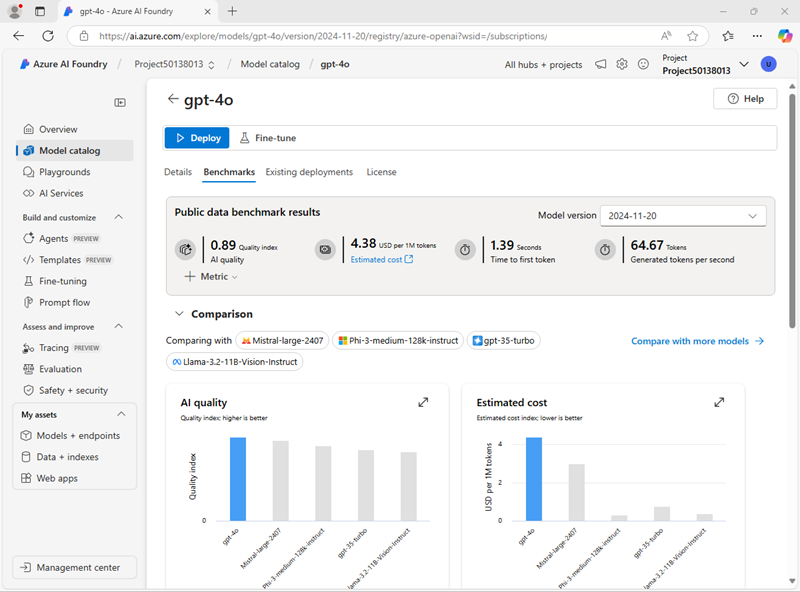
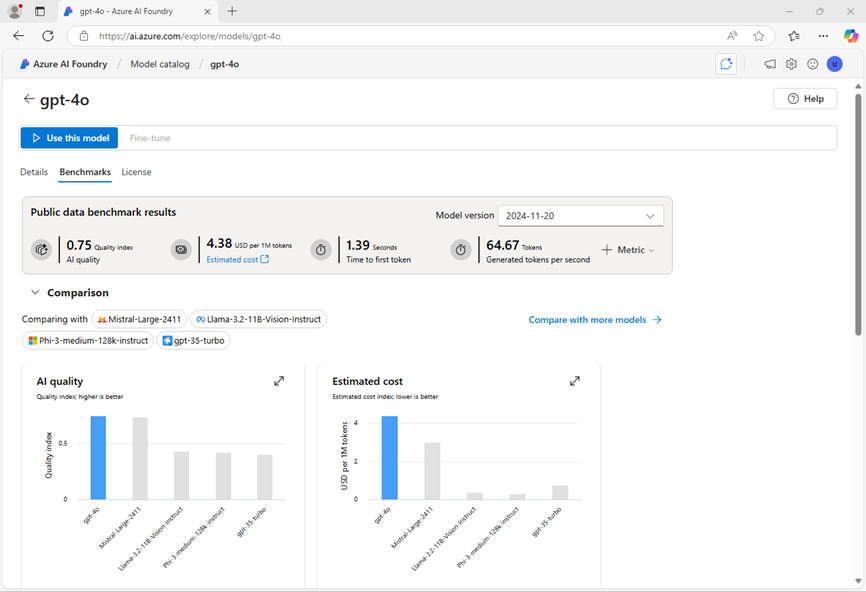
Adding fix for lab 2

diff --git a/Instructions/02-Explore-model-catalog.md b/Instructions/02-Explore-model-catalog.md
@@ -14,48 +14,18 @@ This exercise will take approximately **25** minutes.
 
 > **Note**: Some of the technologies used in this exercise are in preview or in active development. You may experience some unexpected behavior, warnings, or errors.
 
-## Create an Azure AI hub and project
+## Explore models
 
-An Azure AI hub provides a collaborative workspace within which you can define one or more *projects*. Let's create a project and Azure AI hub.
+Let's start by signing into Azure AI Foundry portal and exploring some of the available models.
 
 1. In a web browser, open the [Azure AI Foundry portal](https://ai.azure.com) at `https://ai.azure.com` and sign in using your Azure credentials. Close any tips or quick start panes that are opened the first time you sign in, and if necessary use the **Azure AI Foundry** logo at the top left to navigate to the home page, which looks similar to the following image (close the **Help** pane if it's open):
 
     ![Screenshot of Azure AI Foundry portal.](./media/ai-foundry-home.png)
 
-1. In the home page, select **+ Create project**.
-1. In the **Create a project** wizard, enter a valid name for your project and if an existing hub is suggested, choose the option to create a new one. Then review the Azure resources that will be automatically created to support your hub and project.
-1. Select **Customize** and specify the following settings for your hub:
-    - **Hub name**: *A valid name for your hub*
-    - **Subscription**: *Your Azure subscription*
-    - **Resource group**: *Create or select a resource group*
-    - **Location**: Select **Help me choose** and then select **gpt-4o** in the Location helper window and use the recommended region\*
-    - **Connect Azure AI Services or Azure OpenAI**: *Create a new AI Services resource*
-    - **Connect Azure AI Search**: Skip connecting
-
-    > \* Azure OpenAI resources are constrained by regional model quotas. In the event of a quota limit being exceeded later in the exercise, there's a possibility you may need to create another resource in a different region.
-
-1. Select **Next** and review your configuration. Then select **Create** and wait for the process to complete.
-1. When your project is created, close any tips that are displayed and review the project page in Azure AI Foundry portal, which should look similar to the following image:
-
-    ![Screenshot of a Azure AI project details in Azure AI Foundry portal.](./media/ai-foundry-project.png)
-
-## Configure Azure AI Inference service deployment
-
-There are multiple options for deploying models in the Azure AI Foundry portal. In this exercise, you'll use the **Azure AI model inference** deployment option, which supports both *Azure OpenAI* models and *Model as a service* models from the Azure AI Foundry model catalog. Since all models are deployed to a common endpoint hosted by your Azure AI Services resource, it's easy to switch between models when testing them in order to compare behavior and performance.
-
-1. In the toolbar at the top right of your Azure AI Foundry project page, use the **Preview features** icon (**&#9215;**) to display preview features.
-1. Verify that the **Deploy models to Azure AI model inference service** feature is enabled. Then close the **Preview features** pane.
-
-## Review model details and benchmarks
-
-To help you choose a model, you can explore model descriptions and benchmarks to determine which model best fits your needs.
-
-1. In the Azure AI Foundry project portal, in the navigation pane on the left, select **Model catalog**.
-1. In the model catalog home page, search for `gpt-4o` to find the **gpt-4o** chat completion model.
-
-    ![Screenshot of a search for "gpt-4o" in the model catalog.](./media/model-catalog-search-gpt4.png)
-
-1. Select the **gpt-4o** model and view its details. Read the description and review the other information available on the page.
+1. Review the information on the home page.
+1. In the home page, in the **Explore models and capabilities** section, search for the `gpt-4o` model; which we'll use in our project.
+1. In the search results, select the **gpt-4o** model to see its details.
+1. Read the description and review the other information available on the **Details** tab.
 
     ![Screenshot of the gpt-4o model details page.](./media/gpt4-details.png)
 
@@ -63,14 +33,14 @@ To help you choose a model, you can explore model descriptions and benchmarks to
 
     ![Screenshot of the gpt-4o model benchmarks page.](./media/gpt4-benchmarks.png)
 
-1. Use the back arrow (**&larr;**) next to the **gpt-4o** page title to return to the model catalog home page.
-1. In the model catalog, search for `Phi-3.5-mini-instruct` and view the details and benchmarks for the **Phi-3.5-mini-instruct** model.
+1. Use the back arrow (**&larr;**) next to the **gpt-4o** page title to return to the Azure AI Foundry home page.
+1. Search for `Phi-3.5-mini-instruct` and view the details and benchmarks for the **Phi-3.5-mini-instruct** model.
 
 ## Compare models
 
 You've reviewed two different models, both of which could be used to implement a generative AI chat application. Now let's compare the metrics for these two models visually.
 
-1. Return to the **Model catalog** home page.
+1. Use the back arrow (**&larr;**) to return to the **Model catalog** home page (if the Azure AI Foundry home page opens, select **Go to full model catalog**).
 1. Select **Compare models**. A visual chart for model comparison is displayed with a selection of common models.
 
     ![Screenshot of the model comparison page.](./media/compare-models.png)
@@ -88,57 +58,37 @@ You've reviewed two different models, both of which could be used to implement a
     - Fluency
     - Relevance
 
-## Deploy models
+    Based on the benchmarks, the gpt-4o model looks like offering the best overall performance, but at a higher cost.
 
-Now that you have explored your options through model benchmarks, you're ready to deploy language models. You can browse the model catalog, and deploy from there, or you can deploy a model through the **Deployments** page. Let's explore both options.
+1. In the list of models to compare, select the **gpt-4o** model to re-open its benchmarks page.
+1. In the page for the **gpt-4o** model page, select the **Overview** tab to view the model details.
 
-### Deploy a model from the *Model catalog*
+## Create an Azure AI Foundry project
 
-Let's start by deploying a model from the Model catalog. You may prefer this option when you want to review multiple available models.
+To use a model, you need to create an Azure AI Foundry *project*.
 
-1. Return to the **Model catalog** home page.
-1. Search for and select the `gpt-4o` model, just as you did previously.
-1. On the **gpt-4o** page, select **Deploy** and deploy the model with the following settings by selecting **Customize** in the deployment details:
-1. Deploy the model with the following settings by selecting **Customize** in the deployment details:
-    - **Deployment name**: *A valid name for your model deployment*
-    - **Deployment type**: Global Standard
-    - **Automatic version update**: Enabled
-    - **Model version**: *Select the most recent available version*
-    - **Connected AI resource**: *Select your Azure OpenAI resource connection*
-    - **Tokens per Minute Rate Limit (thousands)**: 50K *(or the maximum available in your subscription if less than 50K)*
-    - **Content filter**: DefaultV2
+1. At the top of the **gpt-4o** model overview page, select **Use this model**.
+1. When prompted to create a project, enter a valid name for your project and expand **Advanced options**.
+1. Select **Customize** and specify the following settings for your hub:
+    - **Azure AI Foundry resource**: *A valid name for your Azure AI Foundry resource*
+    - **Subscription**: *Your Azure subscription*
+    - **Resource group**: *Create or select a resource group*
+    - **Region**: *Select any **AI Services supported location***\*
 
-    > **Note**: Reducing the TPM helps avoid over-using the quota available in the subscription you are using. 50,000 TPM should be sufficient for the data used in this exercise. If your available quota is lower than this, you will be able to complete the exercise but you may need to wait and resubmit prompts if the rate limit is exceeded.
+    > \* Some Azure AI resources are constrained by regional model quotas. In the event of a quota limit being exceeded later in the exercise, there's a possibility you may need to create another resource in a different region.
 
-1. Wait for the deployment to complete.
+1. Select **Create** and wait for your project, including the gpt-4 model deployment you selected, to be created.
+1. When your project is created, the chat playground will be opened automatically so you can test your model:
 
-### Deploy a model through *Models + endpoints*
+    ![Screenshot of a Azure AI Foundry project chat playground.](./media/ai-foundry-chat-playground.png)
 
-If you already know exactly which model you want to deploy, you may prefer to do it through **Models + endpoints**.
+## Chat with the *gpt-4o* model
 
-1. In the navigation bar on the left, in the **My assets** section, select **Models + endpoints**.
-1. In the **Model deployments** tab, in the **+ Deploy model** drop-down list, select **Deploy base model**. Then search for `Phi-3.5-mini-instruct` and confirm you selection.
-1. Agree to the model license.
-1. Deploy a **Phi-3.5-mini-instruct** model with the following settings:
-    - **Deployment name**: *A valid name for your model deployment*
-    - **Deployment type**: Global Standard
-    - **Deployment details**: *Use the default settings*
+Now that you have a model deployment, you can use the playground to test it.
 
-1. Wait for the deployment to complete.
+1. In the chat playground, in the **Setup** pane, ensure that your **gpt-4o** model is selected and in the **Give the model instructions and context** field, set the system prompt to `You are an AI assistant that helps solve problems.`
+1. Select **Apply changes** to update the system prompt.
 
-## Test your models in the chat playground
-
-Now that you have two models to compare, let's see how the models behave in a conversational interaction.
-
-### Prepare to chat
-
-1. In the navigation bar, select **Playgrounds**. Then select the **Chat playground**.
-1. In the **Setup** pane, in the **Give the model instructions and context** field, set the system prompt to `You are an AI assistant that helps solve problems.`
-1. Select **Apply changes**.
-
-### Chat with the *gpt-4o* model
-
-In the **Setup** pane, select your *gpt-4o* model.
 1. In the chat window, enter the following query
 
     ```
@@ -151,9 +101,27 @@ In the **Setup** pane, select your *gpt-4o* model.
     Explain your reasoning.
     ```
 
-### Chat with the *Phi-3.5* model
+## Deploy another model
 
-1. In the **Setup** pane, select your *Phi-3.5* model.
+When you created your project, the **gpt-4o** model you selected was automatically deployed. Let's deploy the ***Phi-3.5-mini-instruct** model you also considered.
+
+1. In the navigation bar on the left, in the **My assets** section, select **Models + endpoints**.
+1. In the **Model deployments** tab, in the **+ Deploy model** drop-down list, select **Deploy base model**. Then search for `Phi-3.5-mini-instruct` and confirm you selection.
+1. Agree to the model license.
+1. Deploy a **Phi-3.5-mini-instruct** model with the following settings:
+    - **Deployment name**: *A valid name for your model deployment*
+    - **Deployment type**: Global Standard
+    - **Deployment details**: *Use the default settings*
+
+1. Wait for the deployment to complete.
+
+## Chat with the *Phi-3.5* model
+
+Now let's chat with the new model in the playground.
+
+1. In the navigation bar, select **Playgrounds**. Then select the **Chat playground**.
+1. In the chat playground, in the **Setup** pane, ensure that your **Phi-3.5-mini-instruct** model is selected and in the **Give the model instructions and context** field, set the system prompt to `You are an AI assistant that helps solve problems.` (the same system prompt you used to test the gpt-4o model.)
+1. Select **Apply changes** to update the system prompt.
 1. Ensure that a new chat session is started before repeating the same prompts you previously used to test the gpt-4 model.
 1. In the chat window, enter the following query
 
@@ -167,9 +135,9 @@ In the **Setup** pane, select your *gpt-4o* model.
     Explain your reasoning.
     ```
 
-### Perform a further comparison
+## Perform a further comparison
 
-1. Try the following puzzle with both models, asking the models to explain their reasoning (the correct answer is 40!):
+1. Use the drop-down list in the **Setup** pane to switch between your models, testing both models with the following puzzle (the correct answer is 40!):
 
     ```
     I have 53 socks in my drawer: 21 identical blue, 15 identical black and 17 identical red. The lights are out, and it is completely dark. How many socks must I take out to make 100 percent certain I have at least one pair of black socks?

diff --git a/Instructions/01-Explore-ai-studio.md b/Instructions/01-Explore-ai-studio.md
@@ -24,7 +24,7 @@ Let's start by signing into Azure AI Foundry portal.
 
 ## Create a project
 
-An Azure AI *project* provides a collaborative workspace for AI development. Let's stary by choosing a model that we want to work with and creating a project to use it in.
+An Azure AI *project* provides a collaborative workspace for AI development. Let's start by choosing a model that we want to work with and creating a project to use it in.
 
 1. In the home page, in the **Explore models and capabilities** section, search for the `gpt-4o` model; which we'll use in our project.
 1. In the search results, select the **gpt-4o** model to see its details, and then at the top of the page for the model, select **Use this model**.
